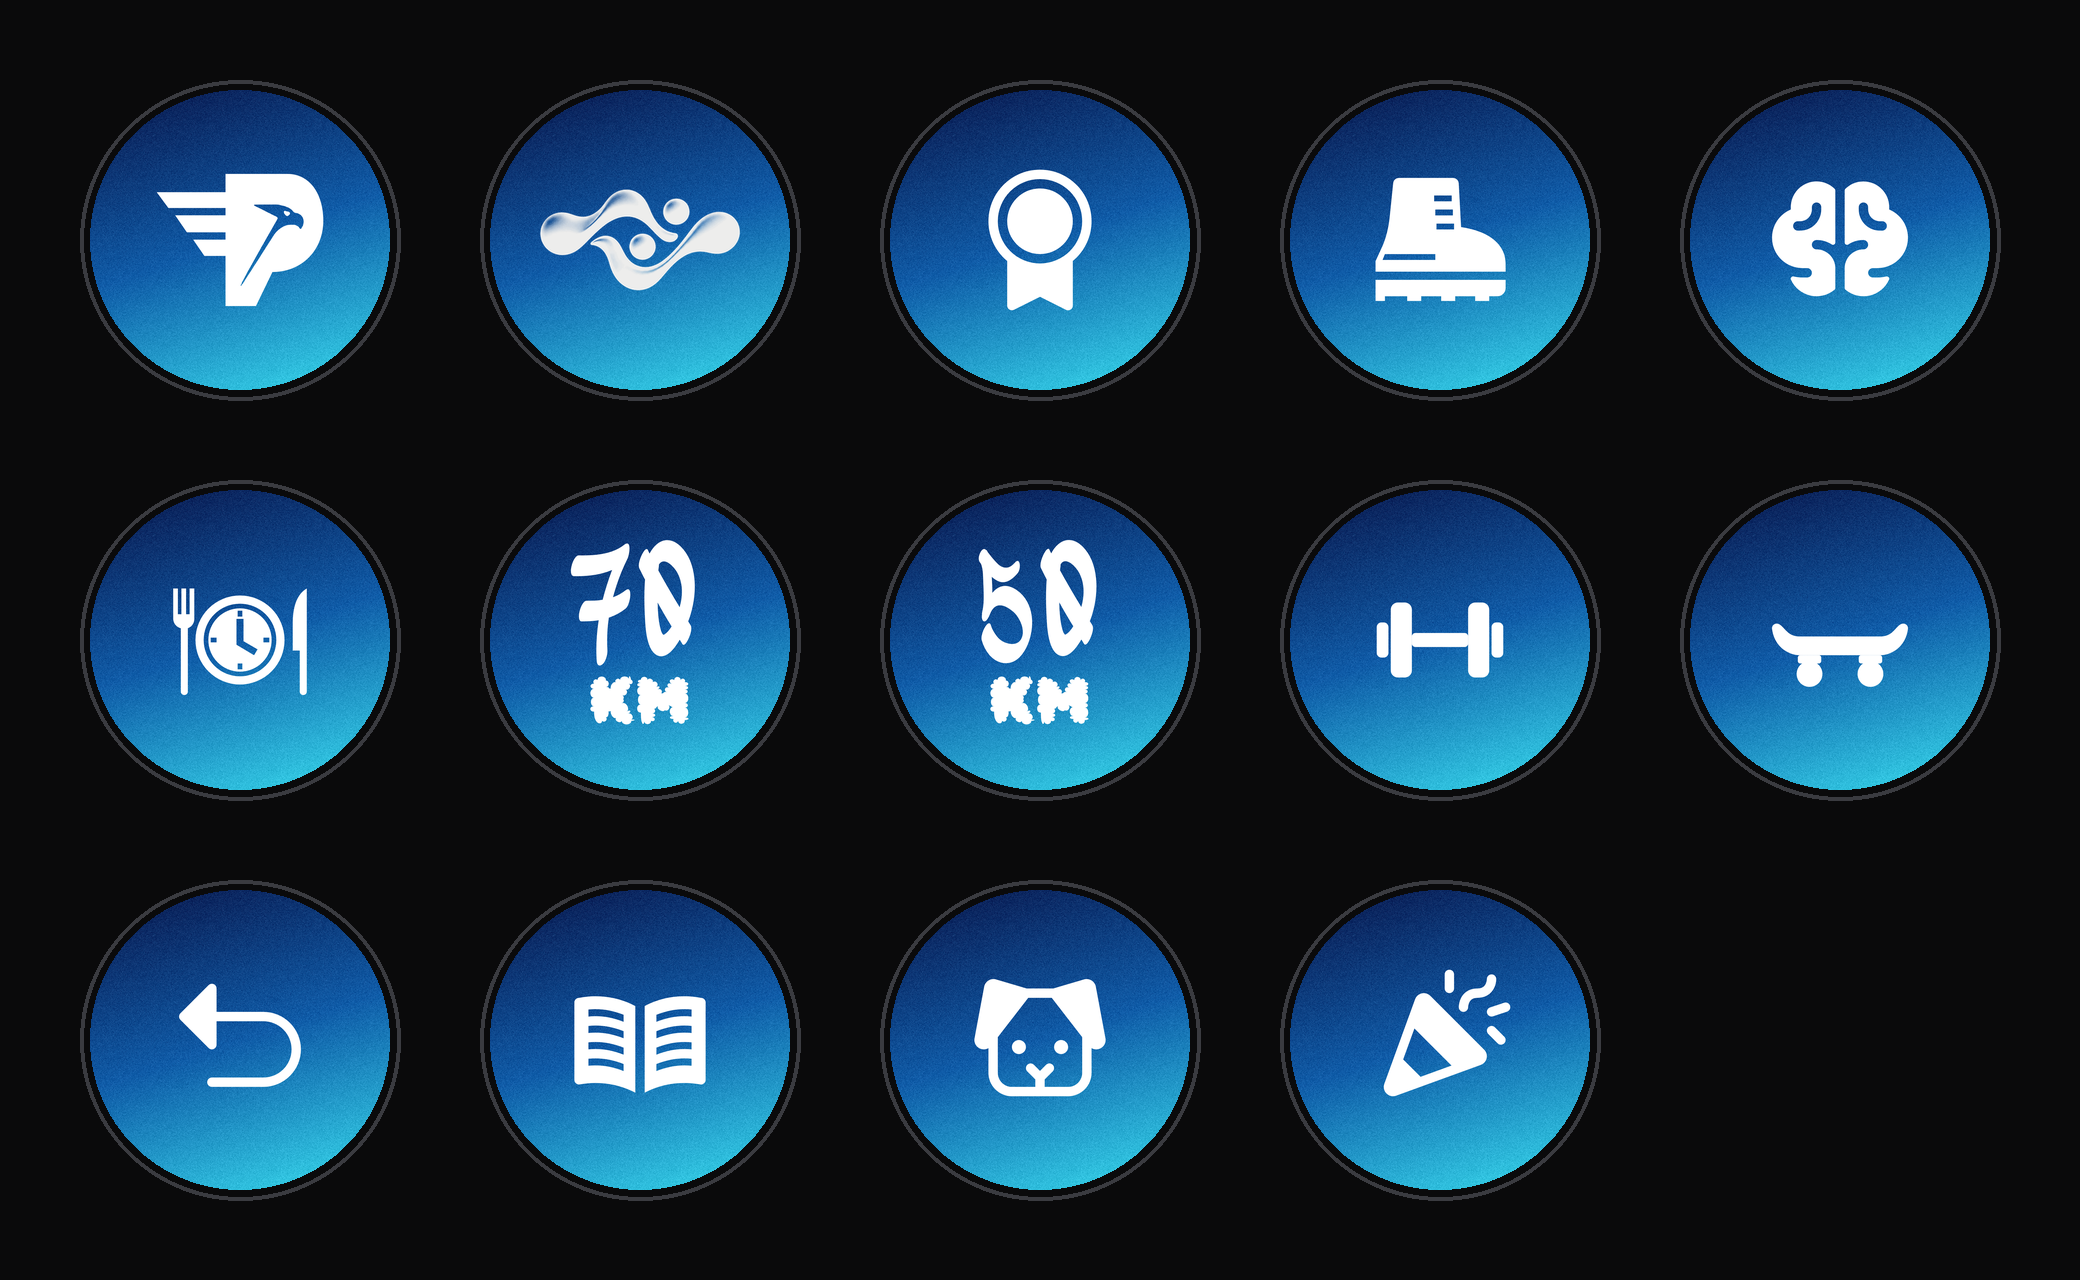
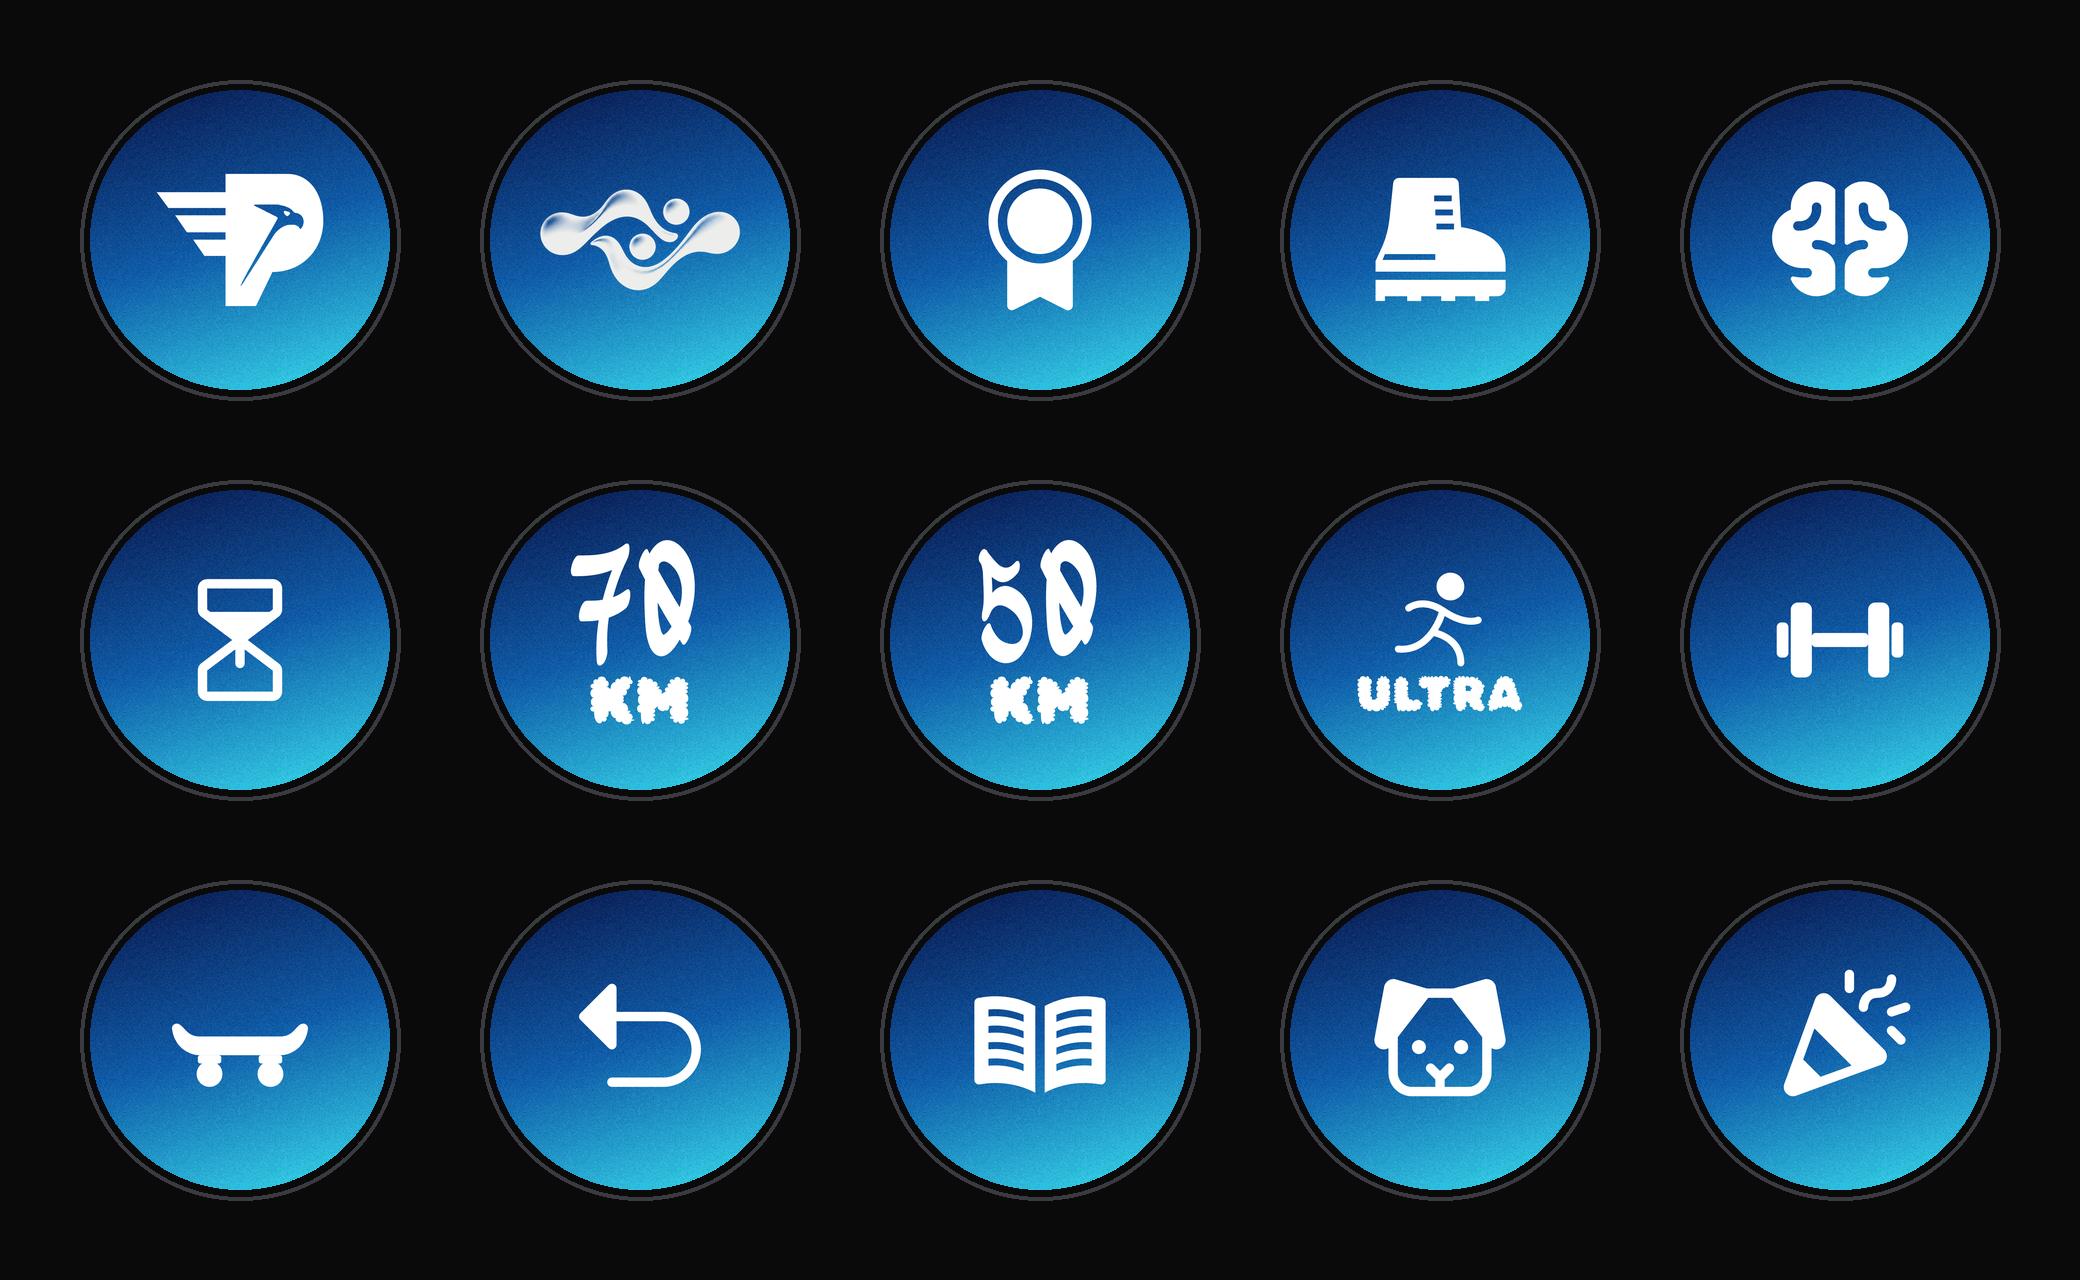
Capa de ultramaratona e jejum com ampulheta
Claude-Session: https://claude.ai/code/session_01LVriSF4Vm5nVz1a2qkGhAC

diff --git a/destaques/gerar.py b/destaques/gerar.py
@@ -32,7 +32,7 @@ CAPAS = [
 ]
 
 # Mesma ordem do render-icones.mjs (só para montar o preview).
-ICONES = ["medalha", "bota-trilha", "cerebro", "jejum", "70km", "50km",
+ICONES = ["medalha", "bota-trilha", "cerebro", "jejum", "70km", "50km", "ultramaratona",
           "halter", "skate", "voltar", "livro", "cachorro", "festa"]
 
 

diff --git a/destaques/README.md b/destaques/README.md
@@ -7,6 +7,7 @@ Capas dos destaques com as logos da PEREGRINUS e da FLOW Labs.
 | `destaque-peregrinus.png` | Falcão em P branco (`peregrinus/01-logos/png/peregrinus-falcao-p-branco.png`) |
 | `destaque-flowlabs.png` | Símbolo FLOW Labs (`brand/flow-labs/logo-simbolo.png`) |
 | `destaque-medalha.png`, `-bota-trilha`, `-cerebro`, `-jejum`, `-halter`, `-skate`, `-voltar`, `-livro`, `-cachorro`, `-festa` | Ícones em branco (`icones/`) |
+| `destaque-ultramaratona.png` | Corredor + ULTRA em letra gordinha de grafite (Rubik Bubbles) |
 | `destaque-70km.png`, `destaque-50km.png` | Número em letra de picho (Sedgwick Ave Display) + KM em letra gordinha de grafite (Rubik Bubbles) |
 | `preview-destaques.png` | Simulação de como aparecem no perfil (círculos) |
 
@@ -14,7 +15,7 @@ Capas dos destaques com as logos da PEREGRINUS e da FLOW Labs.
 
 - PNG 1080 × 1920. O Instagram recorta um círculo de 1080 px no centro; a logo fica centralizada nele, ocupando 55% a 67% da largura.
 - Fundo: gradiente diagonal azul profundo `#06164A` → azul `#0E5CA8` → ciano `#3BE1F0`, com grão monocromático de 7%.
-- Ícones: 540 px (50% do círculo), sempre branco chapado, estilo preenchido. Medalha, cérebro, voltar, cachorro e festa são do Phosphor Icons (MIT, `icones/LICENSE-phosphor.txt`); bota de trilha, jejum (prato-relógio entre garfo e faca), livro (páginas com linhas), halter e skate foram desenhados aqui no mesmo estilo.
+- Ícones: 540 px (50% do círculo), sempre branco chapado, estilo preenchido. Medalha, cérebro, jejum (ampulheta), corredor da ultramaratona, voltar, cachorro e festa são do Phosphor Icons (MIT, `icones/LICENSE-phosphor.txt`); bota de trilha, livro (páginas com linhas), halter e skate foram desenhados aqui no mesmo estilo.
 - Distâncias: número em Sedgwick Ave Display esticado na vertical e inclinado (picho) e KM em Rubik Bubbles (grafite). Fontes OFL em `fontes/`.
 - Logo sempre em branco/clara, sem texto na capa. Nunca redesenhar a logo: usar os arquivos oficiais.
 - Esse gradiente é uma exceção aprovada só para capas de destaque (pedido do Giovani em 29/10/2026). Nos posts e stories continua valendo a regra de fundo chapado dos manuais.
